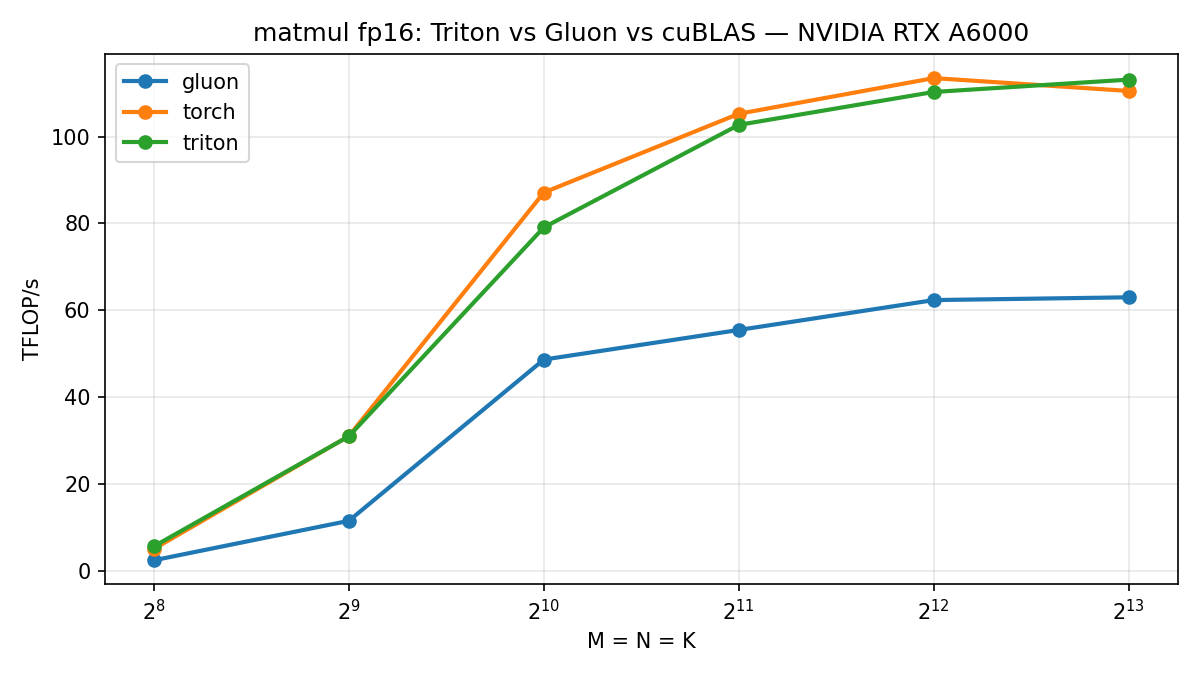
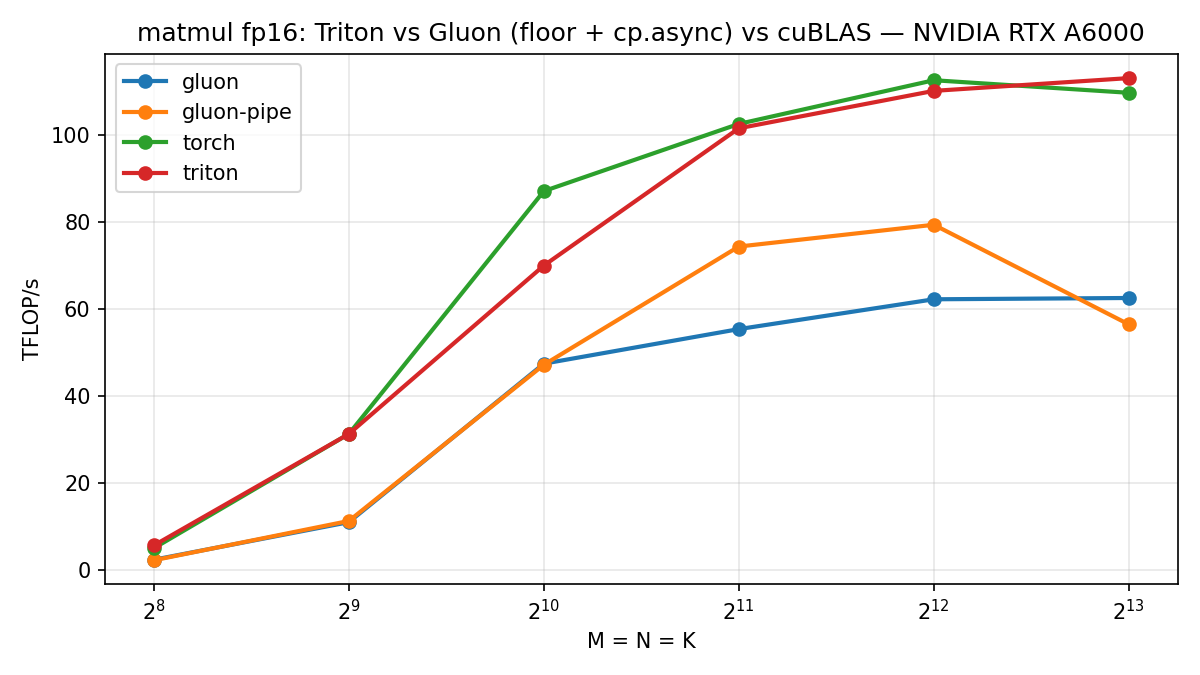
Add cp.async pipelined Gluon matmul, tests, and bench ladder

diff --git a/src/gluon_by_example/gluon_impl/matmul_pipelined.py b/src/gluon_by_example/gluon_impl/matmul_pipelined.py
@@ -1,0 +1,151 @@
+# src/gluon_by_example/gluon_impl/matmul_pipelined.py
+"""cp.async multi-stage pipelined fp16 matmul in Gluon: the floor + a prefetch ring.
+
+This is the floor kernel (explicit layouts + mma_v2, fp32 accumulate) wrapped in
+an explicit cp.async pipeline: a STAGES-deep shared-memory ring buffer prefetches
+each K-tile's global->shared copies (STAGES-1) iterations ahead, so the next
+tile's loads overlap the current tile's mma_v2 instead of stalling on them. At
+the Triton-matched footprint (BLOCK_K=32, STAGES=3, num_warps=4) it claws back
+the latency the unpipelined floor leaves on the table and beats the floor at
+moderate N, but a codegen gap keeps it short of the Triton compiler's autotuned
+GEMM. The full story — footprint vs occupancy, why STAGES=3 is the apples-to-
+apples match, and where the residual gap comes from — is in chapter 5.
+"""
+
+import torch
+from triton.experimental import gluon
+from triton.experimental.gluon import language as gl
+from triton.experimental.gluon.language.nvidia.ampere import mma_v2, async_copy
+
+from gluon_by_example._validation import check_matmul_inputs
+
+_BLOCK_M = 128
+_BLOCK_N = 128
+_BLOCK_K = 32
+_STAGES = 3
+_NUM_WARPS = 4
+
+
+@gluon.jit
+def _pipe_matmul_kernel(a_ptr, b_ptr, c_ptr, M, N, K,
+                        BLOCK_M: gl.constexpr, BLOCK_N: gl.constexpr,
+                        BLOCK_K: gl.constexpr, STAGES: gl.constexpr,
+                        acc_layout: gl.constexpr, lhs_layout: gl.constexpr,
+                        rhs_layout: gl.constexpr, load_layout: gl.constexpr,
+                        a_smem_layout: gl.constexpr, b_smem_layout: gl.constexpr):
+    # One program computes one BLOCK_M x BLOCK_N output tile. No masking: the
+    # wrapper guarantees tile-aligned shapes, so every copy/store is in-bounds.
+    pid_m = gl.program_id(0)
+    pid_n = gl.program_id(1)
+
+    offs_m = pid_m * BLOCK_M + gl.arange(0, BLOCK_M, gl.SliceLayout(1, load_layout))
+    offs_n = pid_n * BLOCK_N + gl.arange(0, BLOCK_N, gl.SliceLayout(0, load_layout))
+    # K offsets for the async-copy address tensors (one tile wide).
+    offs_ka = gl.arange(0, BLOCK_K, gl.SliceLayout(0, load_layout))
+    offs_kb = gl.arange(0, BLOCK_K, gl.SliceLayout(1, load_layout))
+
+    # Ring buffers: STAGES deep. A and B carry separate smem layouts because the
+    # NVMMA swizzle width is capped by the inner contiguous dim: at BLOCK_K=32
+    # the A tile inner dim is 32 elems (64B), so A uses a 64B swizzle while B
+    # (inner dim BLOCK_N=128) keeps the wider 128B swizzle.
+    a_smem = gl.allocate_shared_memory(gl.float16, [STAGES, BLOCK_M, BLOCK_K], a_smem_layout)
+    b_smem = gl.allocate_shared_memory(gl.float16, [STAGES, BLOCK_K, BLOCK_N], b_smem_layout)
+
+    k_tiles = K // BLOCK_K
+
+    # ----- prologue: prefetch the first (STAGES-1) tiles, one group each -----
+    for s in range(STAGES - 1):
+        if s < k_tiles:
+            koff = s * BLOCK_K
+            a_ptrs = a_ptr + offs_m[:, None] * K + (koff + offs_ka)[None, :]
+            b_ptrs = b_ptr + (koff + offs_kb)[:, None] * N + offs_n[None, :]
+            async_copy.async_copy_global_to_shared(a_smem.index(s), a_ptrs)
+            async_copy.async_copy_global_to_shared(b_smem.index(s), b_ptrs)
+        async_copy.commit_group()
+
+    acc = gl.full([BLOCK_M, BLOCK_N], 0.0, gl.float32, acc_layout)
+
+    for k in range(k_tiles):
+        # Issue the copy for the tile (STAGES-1) ahead, into its ring slot.
+        nxt = k + (STAGES - 1)
+        if nxt < k_tiles:
+            slot = nxt % STAGES
+            koff = nxt * BLOCK_K
+            a_ptrs = a_ptr + offs_m[:, None] * K + (koff + offs_ka)[None, :]
+            b_ptrs = b_ptr + (koff + offs_kb)[:, None] * N + offs_n[None, :]
+            async_copy.async_copy_global_to_shared(a_smem.index(slot), a_ptrs)
+            async_copy.async_copy_global_to_shared(b_smem.index(slot), b_ptrs)
+        async_copy.commit_group()
+
+        # Wait until tile k's group is done. After issuing the group above there
+        # are (STAGES-1) groups for tiles k..k+STAGES-1 still relevant; we need
+        # tile k complete, so allow (STAGES-2) groups to remain outstanding.
+        # (Extra trailing empty commit_groups in the tail only ever lower the
+        # outstanding count, so this stays safe near the end.)
+        async_copy.wait_group(STAGES - 2)
+
+        # Direct smem->reg: load straight into the DotOperandLayout the mma
+        # consumes, no intermediate blocked load + convert_layout.
+        cur = k % STAGES
+        a = a_smem.index(cur).load(lhs_layout)
+        b = b_smem.index(cur).load(rhs_layout)
+        acc = mma_v2(a, b, acc)
+
+    out = gl.convert_layout(acc.to(gl.float16), load_layout)
+    gl.store(c_ptr + offs_m[:, None] * N + offs_n[None, :], out)
+
+
+def matmul(a: torch.Tensor, b: torch.Tensor) -> torch.Tensor:
+    """Computes a @ b with a cp.async-pipelined Gluon kernel (fp16, tile-aligned).
+
+    Same narrow contract as the floor kernel: a is (M, K) and b is (K, N), both
+    float16, CUDA, contiguous, with M and N divisible by 128 and K divisible by
+    32 (the pipelined kernel uses BLOCK_K=32). Accumulates in float32, returns
+    float16.
+
+    Args:
+        a: (M, K) CUDA tensor, float16, contiguous, M % 128 == 0, K % 32 == 0.
+        b: (K, N) CUDA tensor, float16, contiguous, N % 128 == 0.
+
+    Returns:
+        (M, N) float16 tensor holding a @ b.
+
+    Raises:
+        ValueError: on non-CUDA, dtype != float16, inner-dim mismatch, or
+            shapes not divisible by the (128, 128, 32) tile.
+    """
+    check_matmul_inputs(a, b)
+    if a.dtype != torch.float16:
+        raise ValueError(
+            f"gluon pipelined matmul supports float16 only, got {a.dtype}; this "
+            "chapter kernel is fp16 + tile-aligned (see chapters/05-matmul-gluon)")
+    M, K = a.shape
+    _, N = b.shape
+    if M % _BLOCK_M or N % _BLOCK_N or K % _BLOCK_K:
+        raise ValueError(
+            f"gluon pipelined matmul needs tile-aligned shapes: M % {_BLOCK_M}, "
+            f"N % {_BLOCK_N}, K % {_BLOCK_K} must be 0, got M={M} N={N} K={K}")
+
+    # Layouts are built here (where num_warps is a plain int) and passed in as
+    # constexpr params, mirroring the floor wrapper. acc spreads the MMA across
+    # num_warps warps along M; the dot-operand layouts inherit it; the blocked
+    # load_layout tiles the same BLOCK_M for the fp16 store.
+    acc_layout = gl.NVMMADistributedLayout(
+        version=[2, 0], warps_per_cta=[_NUM_WARPS, 1], instr_shape=[16, 8])
+    lhs_layout = gl.DotOperandLayout(parent=acc_layout, operand_index=0, k_width=8)
+    rhs_layout = gl.DotOperandLayout(parent=acc_layout, operand_index=1, k_width=8)
+    load_layout = gl.BlockedLayout([1, 8], [4, 8], [_NUM_WARPS, 1], [1, 0])
+
+    # NVMMA swizzle width is capped by the inner contiguous dim (fp16 -> a B-byte
+    # swizzle needs inner_dim >= B/2 elems). A inner = BLOCK_K = 32 -> 64B fits
+    # (128B would need 64); B inner = BLOCK_N = 128 -> 128B fits.
+    a_smem_layout = gl.NVMMASharedLayout(swizzle_byte_width=64, element_bitwidth=16, rank=2)
+    b_smem_layout = gl.NVMMASharedLayout(swizzle_byte_width=128, element_bitwidth=16, rank=2)
+
+    c = torch.empty((M, N), dtype=torch.float16, device=a.device)
+    grid = (M // _BLOCK_M, N // _BLOCK_N)
+    _pipe_matmul_kernel[grid](
+        a, b, c, M, N, K, _BLOCK_M, _BLOCK_N, _BLOCK_K, _STAGES,
+        acc_layout, lhs_layout, rhs_layout, load_layout,
+        a_smem_layout, b_smem_layout, num_warps=_NUM_WARPS)
+    return c

diff --git a/tests/test_matmul.py b/tests/test_matmul.py
@@ -8,13 +8,15 @@ import triton
 from gluon_by_example.triton_impl.matmul import _CONFIGS, _matmul_kernel
 from gluon_by_example.triton_impl.matmul import matmul as triton_matmul
 from gluon_by_example.gluon_impl.matmul import matmul as gluon_matmul
+from gluon_by_example.gluon_impl.matmul_pipelined import matmul as gluon_pipe_matmul
 
 requires_cuda = pytest.mark.skipif(not torch.cuda.is_available(), reason="needs CUDA")
 
-# Chapter 5 adds the Gluon implementation here.
+# Chapter 5 adds the Gluon implementations here.
 BACKENDS = {
     "triton": triton_matmul,
     "gluon": gluon_matmul,
+    "gluon-pipe": gluon_pipe_matmul,
 }
 
 # (M, K, N): degenerate single element, one tile, odd everything (masks on
@@ -119,3 +121,22 @@ def test_gluon_rejects_bf16():
     b = torch.randn(64, 128, device="cuda", dtype=torch.bfloat16)
     with pytest.raises(ValueError, match="float16"):
         gluon_matmul(a, b)
+
+
+@requires_cuda
+@pytest.mark.parametrize("shape", ALIGNED_SHAPES)
+def test_gluon_pipe_matches_ground_truth(shape):
+    m, k, n = shape
+    a = torch.randn(m, k, device="cuda", dtype=torch.float16)
+    b = torch.randn(k, n, device="cuda", dtype=torch.float16)
+    out = gluon_pipe_matmul(a, b)
+    torch.testing.assert_close(
+        out.double(), a.double() @ b.double(), **TOLS[torch.float16])
+
+
+@requires_cuda
+def test_gluon_pipe_rejects_unaligned():
+    a = torch.randn(130, 64, device="cuda", dtype=torch.float16)
+    b = torch.randn(64, 128, device="cuda", dtype=torch.float16)
+    with pytest.raises(ValueError, match="tile-aligned"):
+        gluon_pipe_matmul(a, b)

diff --git a/chapters/05-matmul-gluon/bench.py b/chapters/05-matmul-gluon/bench.py
@@ -1,9 +1,9 @@
 # chapters/05-matmul-gluon/bench.py
-"""Benchmarks matmul: Triton vs Gluon vs cuBLAS (torch.matmul), fp16 squares.
+"""Benchmarks matmul: Triton vs Gluon (floor + cp.async) vs cuBLAS, fp16 squares.
 
 Compute-bound kernels are sensitive to contention and thermals, so this script
 refuses to run while other processes hold the benchmark GPU. All sizes are
-divisible by the Gluon kernel's (128, 128, 64) tile.
+divisible by both Gluon tiles (the floor's K=64 and the pipelined kernel's K=32).
 
 Usage: python chapters/05-matmul-gluon/bench.py
 """
@@ -18,6 +18,7 @@ import torch
 import triton
 
 from gluon_by_example.gluon_impl.matmul import matmul as gluon_matmul
+from gluon_by_example.gluon_impl.matmul_pipelined import matmul as gluon_pipe_matmul
 from gluon_by_example.triton_impl.matmul import matmul as triton_matmul
 
 REPO = Path(__file__).resolve().parents[2]
@@ -31,6 +32,7 @@ PROVIDERS = {
     "torch": torch.matmul,
     "triton": triton_matmul,
     "gluon": gluon_matmul,
+    "gluon-pipe": gluon_pipe_matmul,
 }
 
 
@@ -97,7 +99,7 @@ def main() -> None:
     make_bandwidth_chart(
         csv_path,
         png_path,
-        title=f"matmul fp16: Triton vs Gluon vs cuBLAS — {torch.cuda.get_device_name(0)}",
+        title=f"matmul fp16: Triton vs Gluon (floor + cp.async) vs cuBLAS — {torch.cuda.get_device_name(0)}",
         xlabel="M = N = K",
         ycol="tflops",
         ylabel="TFLOP/s",
